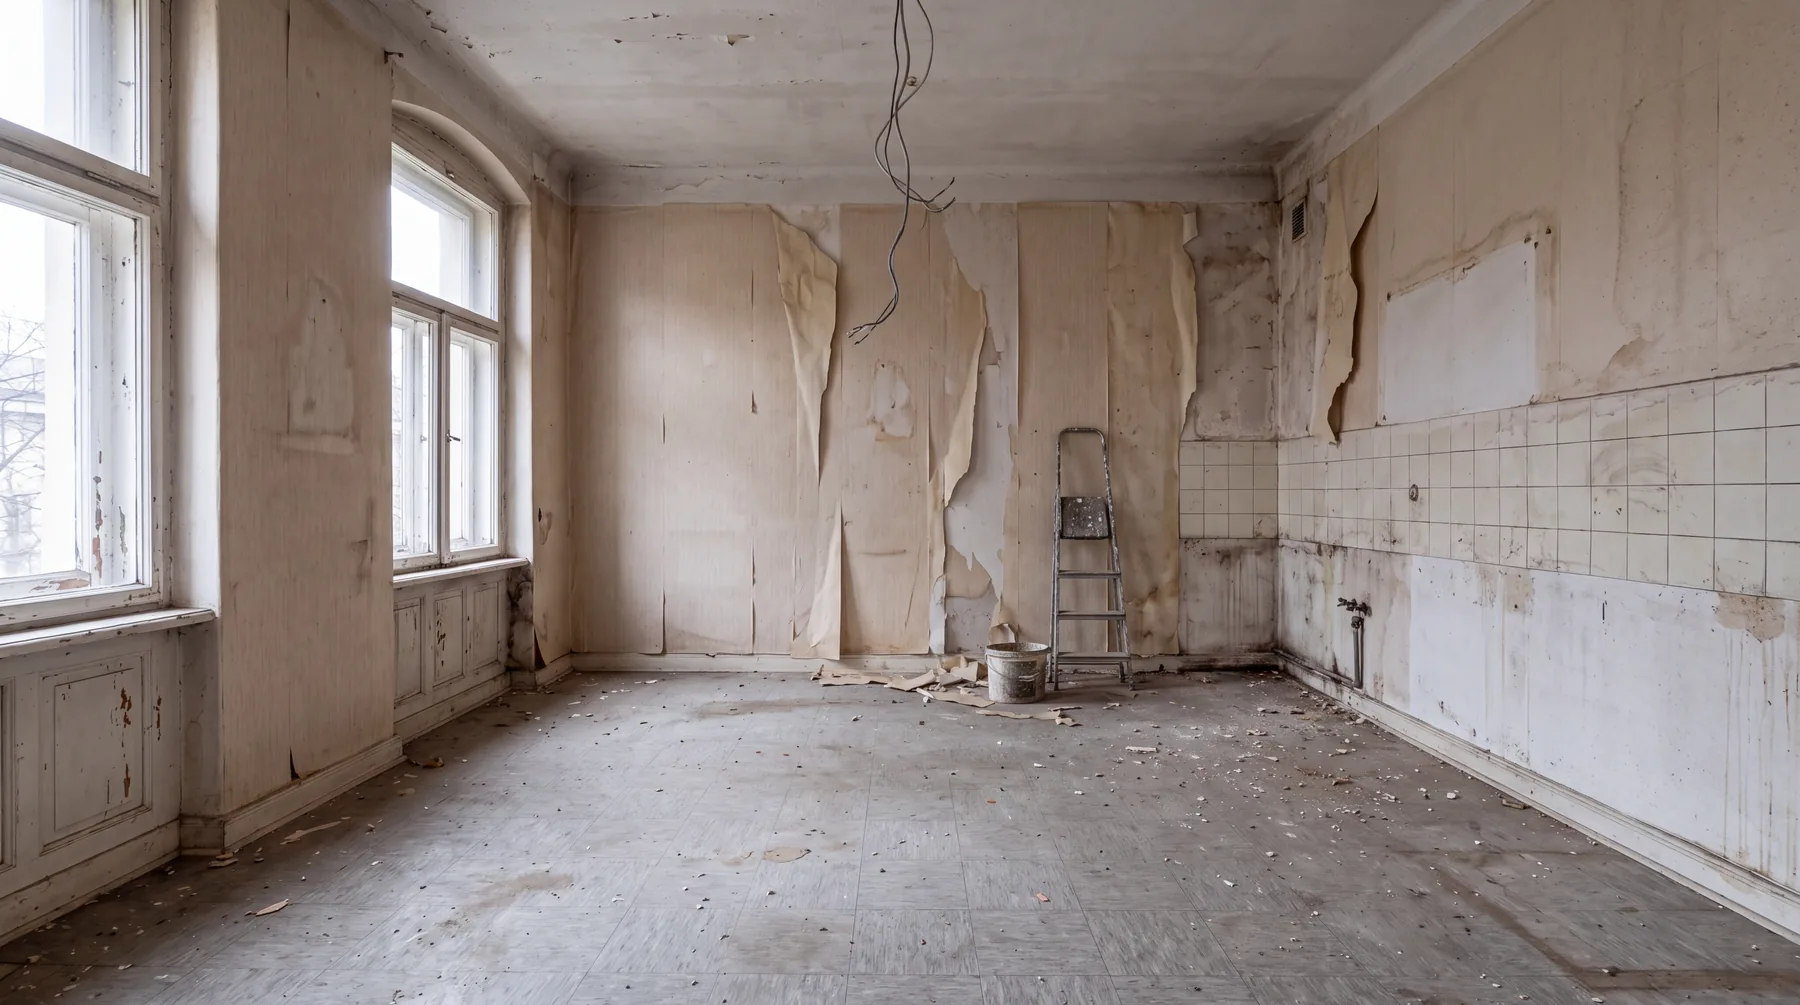
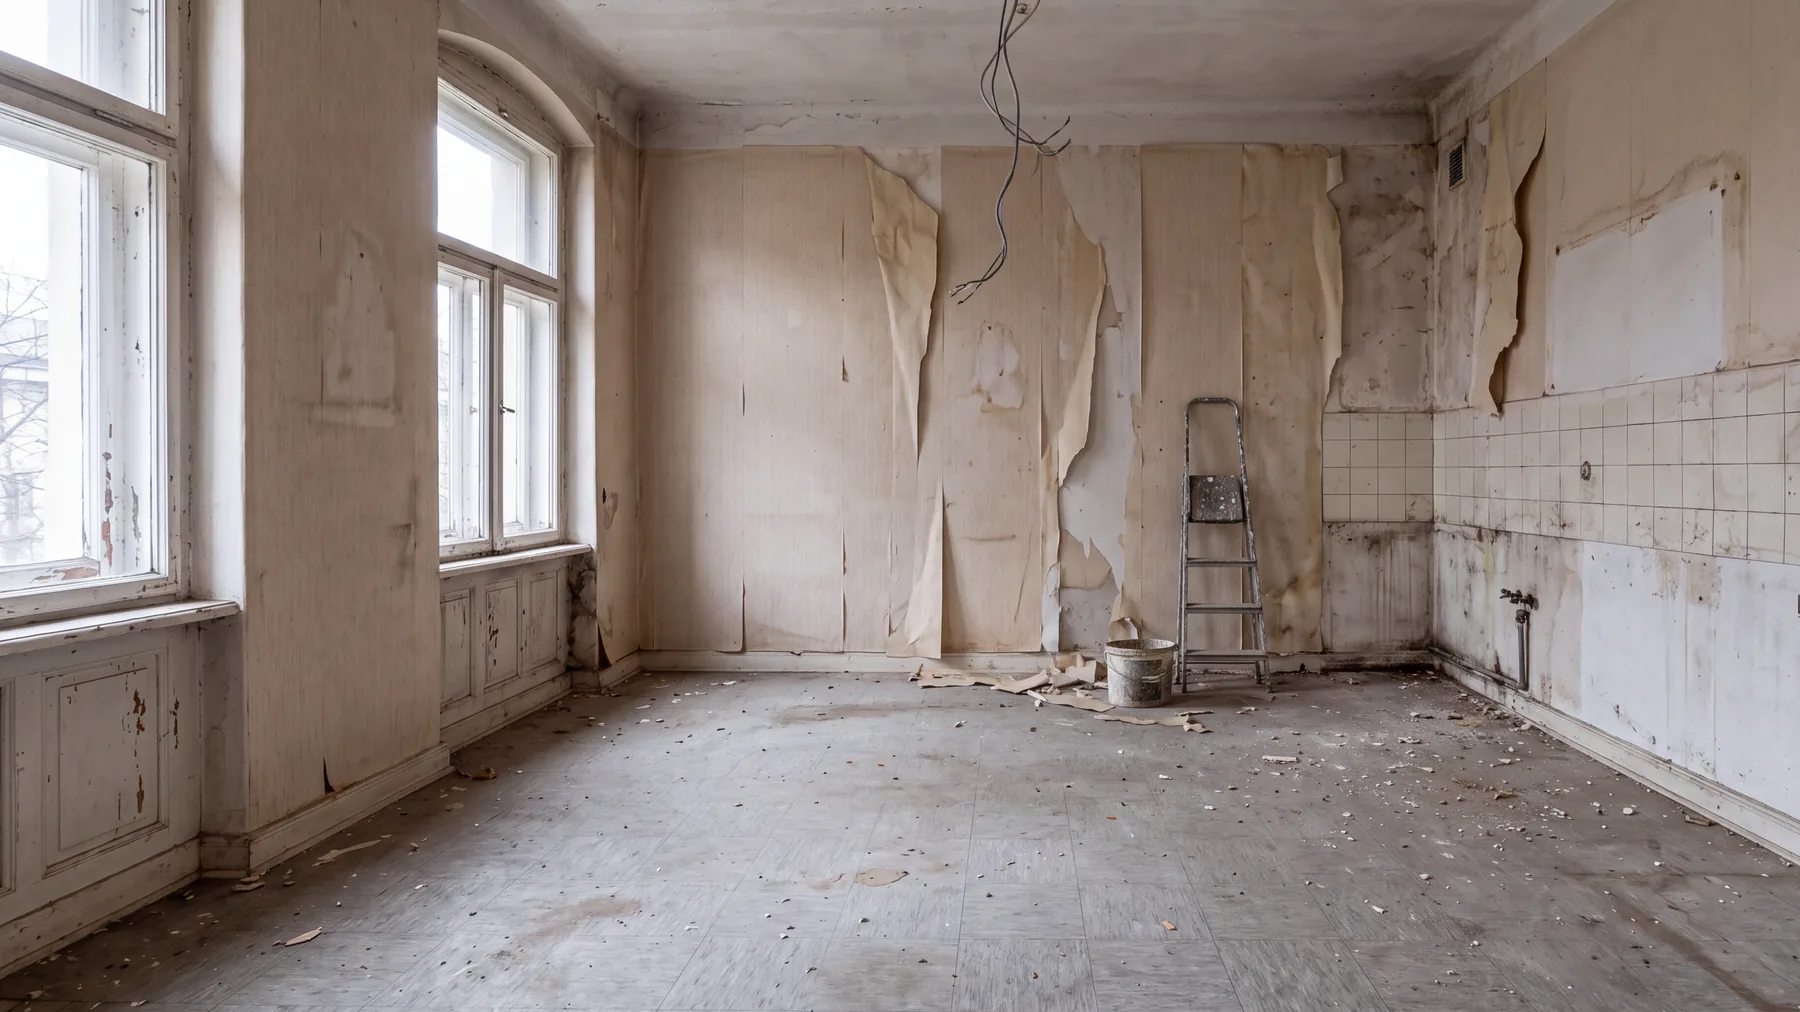
Nachher-Bild (Dreamina, ausgerichtet) → Wisch-Regler + Bauplan aktiv, Film-Bilder eager

diff --git a/site/assets/manifest.js b/site/assets/manifest.js
@@ -1,1 +1,1 @@
-window.ASSETS={"img": {"caretaker": {"sizes": [1800, 3840], "w": 5504, "h": 3072}, "house-exploded": {"sizes": [1800, 3840], "w": 5504, "h": 3072}, "house": {"sizes": [1800, 3840], "w": 5504, "h": 3072}, "keys": {"sizes": [1800, 3840], "w": 5504, "h": 3072}, "recruit": {"sizes": [1800, 3840], "w": 5504, "h": 3072}, "room-before": {"sizes": [1800, 3840], "w": 5504, "h": 3072}, "step-beratung": {"sizes": [1800, 3840], "w": 5504, "h": 3072}, "step-betreuung": {"sizes": [1800, 3840], "w": 5504, "h": 3072}, "step-umsetzung": {"sizes": [1800, 3840], "w": 5504, "h": 3072}, "tile-hausmeister": {"sizes": [1800], "w": 3584, "h": 4800}, "tile-planung": {"sizes": [1800], "w": 3584, "h": 4800}, "tile-sanierung": {"sizes": [1800], "w": 3584, "h": 4800}, "tile-umbau": {"sizes": [1800], "w": 3584, "h": 4800}}, "video": {"recruit": {"desktop": "assets/video/recruit-desktop.mp4", "mobile": "assets/video/recruit-mobile.mp4"}}};
+window.ASSETS={"img": {"caretaker": {"sizes": [1800, 3840], "w": 5504, "h": 3072}, "house-exploded": {"sizes": [1800, 3840], "w": 5504, "h": 3072}, "house": {"sizes": [1800, 3840], "w": 5504, "h": 3072}, "keys": {"sizes": [1800, 3840], "w": 5504, "h": 3072}, "recruit": {"sizes": [1800, 3840], "w": 5504, "h": 3072}, "room-after": {"sizes": [1800], "w": 2279, "h": 1281}, "room-before": {"sizes": [1800, 3840], "w": 4900, "h": 2754}, "step-beratung": {"sizes": [1800, 3840], "w": 5504, "h": 3072}, "step-betreuung": {"sizes": [1800, 3840], "w": 5504, "h": 3072}, "step-umsetzung": {"sizes": [1800, 3840], "w": 5504, "h": 3072}, "tile-hausmeister": {"sizes": [1800], "w": 3584, "h": 4800}, "tile-planung": {"sizes": [1800], "w": 3584, "h": 4800}, "tile-sanierung": {"sizes": [1800], "w": 3584, "h": 4800}, "tile-umbau": {"sizes": [1800], "w": 3584, "h": 4800}}, "video": {"recruit": {"desktop": "assets/video/recruit-desktop.mp4", "mobile": "assets/video/recruit-mobile.mp4"}}};

diff --git a/site/main.js b/site/main.js
@@ -21,7 +21,7 @@
       img.src = `${base}-${meta.sizes[meta.sizes.length - 1]}.webp`;
       img.width = meta.w; img.height = meta.h;
       img.decoding = 'async';
-      if (!img.closest('.stage') && !img.closest('.flow')) img.loading = 'lazy';
+      if (!img.closest('.stage') && !img.closest('.flow') && !img.closest('.film')) img.loading = 'lazy';
       const done = () => img.classList.add('is-in');
       img.complete ? done() : img.addEventListener('load', done, { once: true });
       img.addEventListener('error', () => img.classList.add('is-missing'), { once: true });
